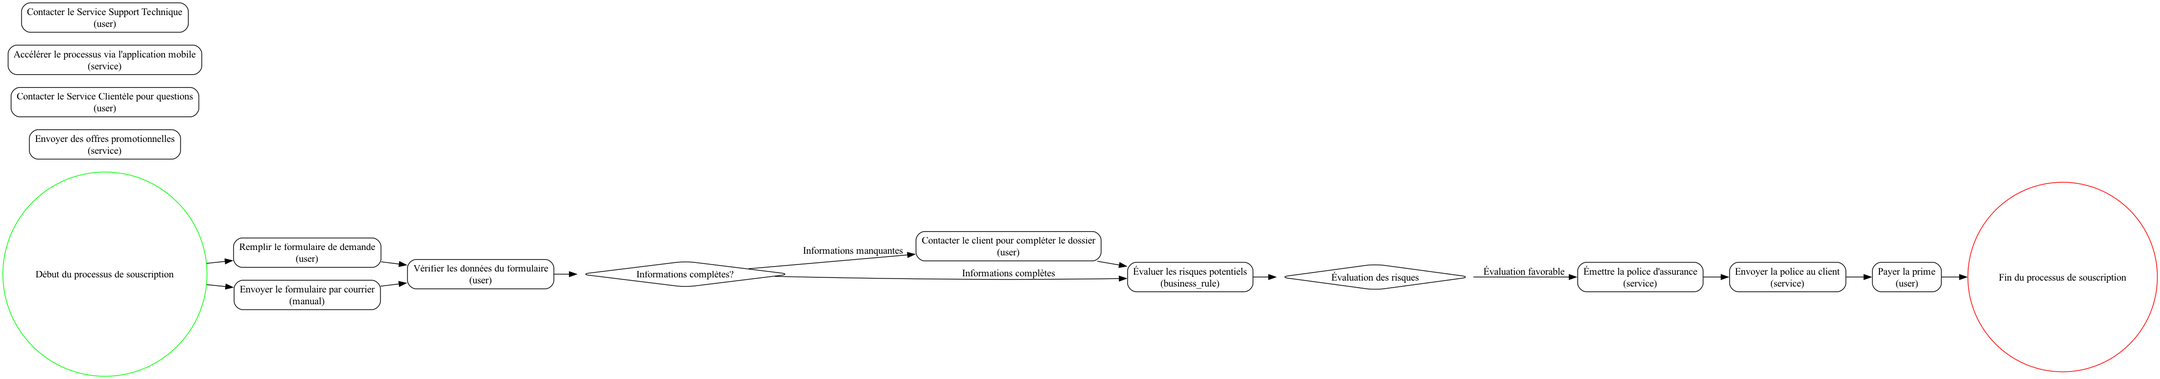
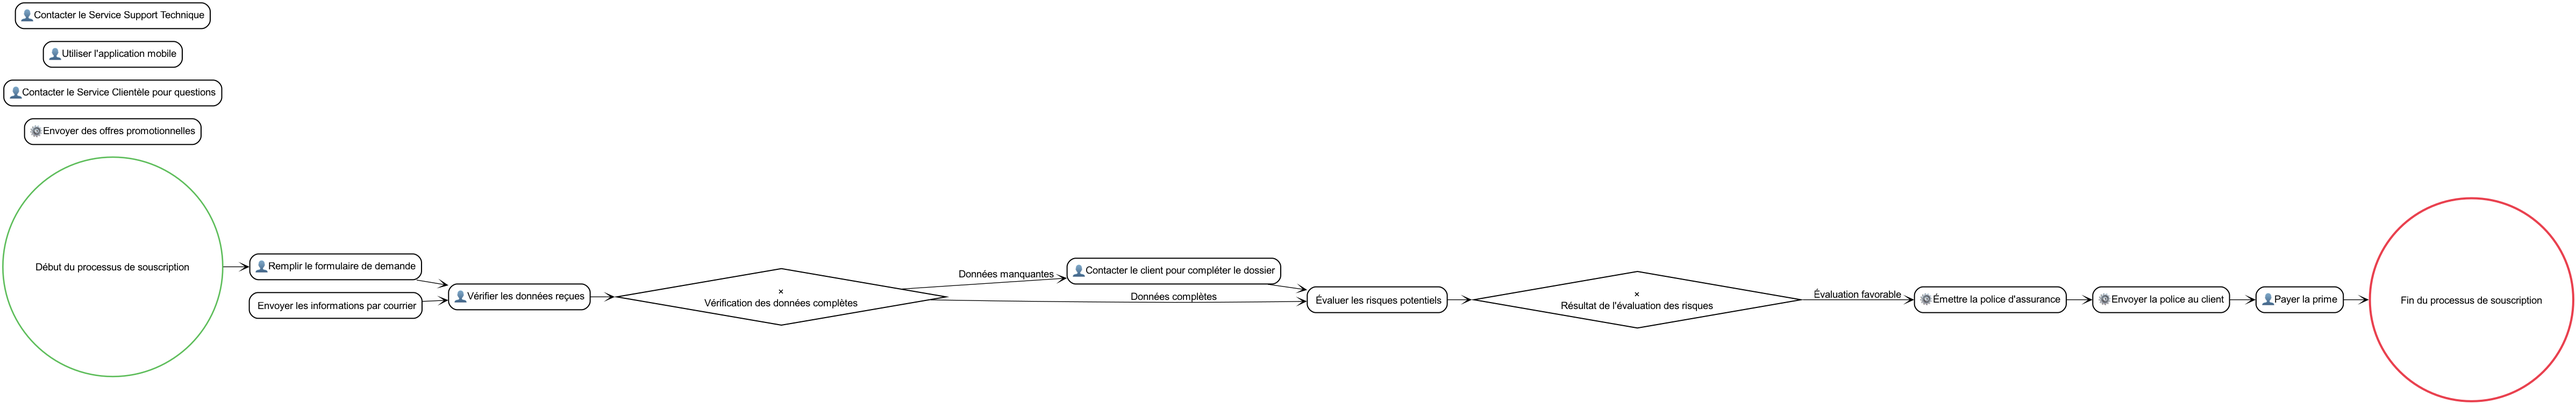
fixed .bpmn file generation

diff --git a/sb-text2bpmn-v2.py b/sb-text2bpmn-v2.py
@@ -201,55 +201,70 @@ def extract_bpmn_elements(text: str) -> BPMNProcess:
     return validated_response
 
 def visualize_process(bpmn_process: BPMNProcess, output_path: str = "process"):
-    """
-    Visualize the BPMN process using graphviz
-    Args:
-        bpmn_process: The BPMN process to visualize
-        output_path: The path where to save the visualization (without extension)
-    """
     dot = Digraph(comment=bpmn_process.process_name)
     dot.attr(rankdir='LR')  # Left to right direction
     
-    # Define node styles for different elements
-    dot.attr('node', shape='rectangle', style='rounded')
+    # Define BPMN-compliant styles
+    dot.attr('node', fontname='Arial')
+    dot.attr('edge', fontname='Arial')
     
-    # Add pools as subgraphs
+    # Add pools as subgraphs with standard BPMN pool formatting
     for pool in bpmn_process.pools:
         with dot.subgraph(name=f'cluster_{pool.id}') as p:
-            p.attr(label=pool.name, style='rounded', bgcolor='lightgrey')
+            p.attr(label=pool.name, style='filled,rounded', 
+                  fillcolor='white', penwidth='2.0',
+                  labelloc='b')  # BPMN pools have labels at the bottom
             
-            # Add lanes as subgraphs within pools
+            # Add lanes with standard BPMN lane formatting
             pool_lanes = [lane for lane in bpmn_process.lanes if lane.parent_pool_id == pool.id]
             for lane in pool_lanes:
                 with p.subgraph(name=f'cluster_{lane.id}') as l:
-                    l.attr(label=lane.name, style='rounded', bgcolor='white')
+                    l.attr(label=lane.name, style='filled', fillcolor='white',
+                          penwidth='1.0', labelloc='c')
 
-    # Add events
+    # Add events with BPMN-compliant shapes and styling
     for event in bpmn_process.events:
-        shape = 'circle'
         if event.type == EventType.START:
-            color = 'green'
+            dot.node(event.id, event.name, shape='circle', 
+                    style='filled', fillcolor='white',
+                    penwidth='2.0', color='#5dbd5a')
         elif event.type == EventType.END:
-            color = 'red'
+            dot.node(event.id, event.name, shape='circle',
+                    style='filled', fillcolor='white',
+                    penwidth='3.0', color='#e9404e')
         else:
-            color = 'yellow'
-        
-        dot.node(event.id, event.name, shape=shape, color=color)
+            dot.node(event.id, event.name, shape='circle',
+                    style='filled', fillcolor='white',
+                    penwidth='2.0', color='#ffa500')
 
-    # Add tasks
+    # Add tasks with BPMN-compliant styling
     for task in bpmn_process.tasks:
-        dot.node(task.id, f"{task.name}\n({task.type})", shape='rectangle')
+        style = 'filled,rounded'
+        if task.type == TaskType.USER:
+            image = '👤'  # User task indicator
+        elif task.type == TaskType.SERVICE:
+            image = '⚙'  # Service task indicator
+        elif task.type == TaskType.SCRIPT:
+            image = '📜'  # Script task indicator
+        else:
+            image = ''
+            
+        dot.node(task.id, f"{image} {task.name}", shape='rectangle',
+                style=style, fillcolor='white', penwidth='1.5')
 
-    # Add gateways
+    # Add gateways with BPMN-compliant styling
     for gateway in bpmn_process.gateways:
-        dot.node(gateway.id, gateway.name, shape='diamond')
+        label = '×' if gateway.type == GatewayType.EXCLUSIVE else '+' if gateway.type == GatewayType.PARALLEL else 'O'
+        dot.node(gateway.id, f"{label}\n{gateway.name}", shape='diamond',
+                style='filled', fillcolor='white', penwidth='1.5')
 
-    # Add connections
+    # Add sequence flows (connections) with BPMN-compliant styling
     for conn in bpmn_process.connections:
-        label = conn.condition if conn.condition else ''
-        dot.edge(conn.source_id, conn.target_id, label=label)
+        dot.edge(conn.source_id, conn.target_id,
+                label=conn.condition if conn.condition else '',
+                arrowhead='vee', penwidth='1.0')
 
-    # Generate both formats
+    # Generate output
     dot.render(output_path, view=False, format='svg', cleanup=False)
     dot.render(output_path, view=True, format='png', cleanup=True)
 

diff --git a/sb-text2bpmn-v1.py b/sb-text2bpmn-v1.py
@@ -4,6 +4,7 @@ from typing import List, Optional, Dict, Any
 from pydantic import BaseModel, Field
 from dotenv import load_dotenv
 import xml.etree.ElementTree as ET
+import re
 
 load_dotenv()
 
@@ -200,73 +201,60 @@ def extract_bpmn_elements(text: str) -> BPMNProcess:
     return validated_response
 
 def convert_to_bpmn_xml(bpmn_process: BPMNProcess) -> str:
-    """Convert the BPMNProcess object to BPMN 2.0 XML format"""
-    
-    # Create the root element
-    root = ET.Element('definitions', {
-        'xmlns': 'http://www.omg.org/spec/BPMN/20100524/MODEL',
+    # Create the root element with correct namespaces
+    root = ET.Element('bpmn:definitions', {
+        'xmlns:bpmn': 'http://www.omg.org/spec/BPMN/20100524/MODEL',
         'xmlns:bpmndi': 'http://www.omg.org/spec/BPMN/20100524/DI',
         'xmlns:dc': 'http://www.omg.org/spec/DD/20100524/DC',
         'xmlns:di': 'http://www.omg.org/spec/DD/20100524/DI',
         'xmlns:xsi': 'http://www.w3.org/2001/XMLSchema-instance',
-        'xmlns:camunda': 'http://camunda.org/schema/1.0/bpmn',
         'id': 'Definitions_1',
-        'targetNamespace': 'http://bpmn.io/schema/bpmn',
-        'exporter': 'bpmn-js',
-        'exporterVersion': '12.0.0'
+        'targetNamespace': 'http://bpmn.io/schema/bpmn'
     })
-    
-    # Create process element
-    process = ET.SubElement(root, 'process', {
-        'id': f'Process_{bpmn_process.process_name}',
+
+    # Create process with sanitized ID
+    process_id = sanitize_id(bpmn_process.process_name)
+    process = ET.SubElement(root, 'bpmn:process', {
+        'id': f'Process_{process_id}',
         'isExecutable': 'false'
     })
-    
-    # Add all elements to the process
-    for pool in bpmn_process.pools:
-        participant = ET.SubElement(root, 'participant', {
-            'id': pool.id,
-            'name': pool.name,
-            'processRef': f'Process_{pool.id}'
-        })
-    
-    # Add tasks
+
+    # Add all BPMN elements to the process
     for task in bpmn_process.tasks:
-        task_element = ET.SubElement(process, 'task', {
-            'id': task.id,
+        task_id = sanitize_id(task.id)
+        task_elem = ET.SubElement(process, 'bpmn:task', {
+            'id': task_id,
             'name': task.name
         })
-    
-    # Add events
+
     for event in bpmn_process.events:
-        event_type = f"{event.type}Event"
-        event_element = ET.SubElement(process, event_type, {
-            'id': event.id,
+        event_id = sanitize_id(event.id)
+        event_elem = ET.SubElement(process, 'bpmn:startEvent' if event.type == 'start' else 'bpmn:endEvent', {
+            'id': event_id,
             'name': event.name
         })
+
+    # Add diagram information
+    diagram = ET.SubElement(root, 'bpmndi:BPMNDiagram', {
+        'id': 'BPMNDiagram_1'
+    })
     
-    # Add gateways
-    for gateway in bpmn_process.gateways:
-        gateway_type = f"{gateway.type}Gateway"
-        gateway_element = ET.SubElement(process, gateway_type, {
-            'id': gateway.id,
-            'name': gateway.name
-        })
-    
-    # Add sequence flows
-    for conn in bpmn_process.connections:
-        seq_flow = ET.SubElement(process, 'sequenceFlow', {
-            'id': f'Flow_{conn.source_id}_{conn.target_id}',
-            'sourceRef': conn.source_id,
-            'targetRef': conn.target_id
-        })
-        if conn.condition:
-            condition = ET.SubElement(seq_flow, 'conditionExpression', {
-                'xsi:type': 'tFormalExpression'
-            })
-            condition.text = conn.condition
-    
-    return ET.tostring(root, encoding='unicode')
+    plane = ET.SubElement(diagram, 'bpmndi:BPMNPlane', {
+        'id': 'BPMNPlane_1',
+        'bpmnElement': f'Process_{process_id}'
+    })
+
+    # Return the formatted XML
+    return ET.tostring(root, encoding='unicode', xml_declaration=True)
+
+def sanitize_id(text: str) -> str:
+    """Sanitize text to be used as XML ID"""
+    # Remove special characters and spaces
+    sanitized = re.sub(r'[^a-zA-Z0-9_-]', '_', text)
+    # Ensure it starts with a letter or underscore
+    if sanitized[0].isdigit():
+        sanitized = f'_{sanitized}'
+    return sanitized
 
 def save_bpmn_diagram(bpmn_process: BPMNProcess, filename: str):
     """Save the BPMN process as a BPMN 2.0 XML file"""
